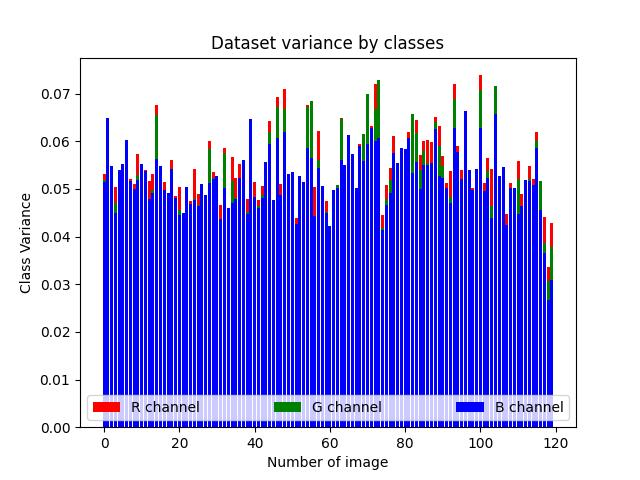
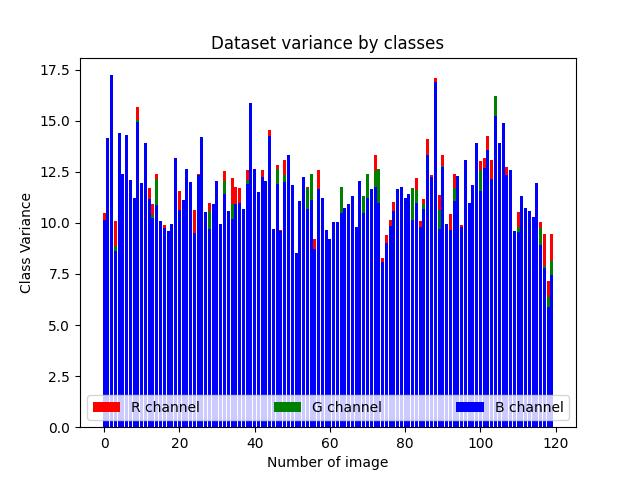
Fix variance by classes formula

diff --git a/src/features.py b/src/features.py
@@ -71,7 +71,7 @@ def get_features_classes(data_train_dir, img_height, img_width):
     all_classes_directory = glob.glob(data_train_dir + '/*')
     features = []
     helpers.progress(0, len(all_classes_directory))
-    for i, path in enumerate(all_classes_directory):
+    for index, path in enumerate(all_classes_directory):
         class_features = []
         features_classes = get_features(glob.glob(path + '/*'), img_height, img_width, False)
 
@@ -79,9 +79,15 @@ def get_features_classes(data_train_dir, img_height, img_width):
         for i in range(0, 3):
             class_features.append(np.mean(features_classes[:, i]))
 
-        # var
+        # var (https://stats.stackexchange.com/questions/300392/calculate-the-variance-from-variances)
         for i in range(3, 6):
-            class_features.append(np.mean(features_classes[:, i]))
+            mean_class = np.mean(features_classes[:, i - 3])
+            mean = features_classes[:, i - 3]
+            var = features_classes[:, i]
+            var_mean = 0
+            for j in range(0, len(mean)):
+                var_mean = var_mean + ((mean_class - mean[j]) ** 2 + var[j])
+            class_features.append(var_mean)
 
         # # skew = asimetrie
         # for i in range(6, 9):
@@ -92,7 +98,7 @@ def get_features_classes(data_train_dir, img_height, img_width):
         #     class_features.append(kurtosis(features_classes[:, i], fisher=False))
 
         features.append(class_features)
-        helpers.progress(i, len(all_classes_directory), 'Classes features')
+        helpers.progress(index, len(all_classes_directory), 'Classes features')
 
     return np.array(features, dtype=object)
 

diff --git a/main.py b/main.py
@@ -23,10 +23,10 @@ dataset_train, dataset_test = dataset.load_dataset_paths(data_train_dir, data_te
 # FEATURES ALL DATASET
 # ___________________________________________
 
-train_features = features.get_features(dataset_train.filenames, img_height, img_width)
-
-features.plot_features(train_features[:, 0:3], 'Dataset mean', 'Mean', True, False)
-features.plot_features(train_features[:, 3:6], 'Dataset variance', 'Variance', True, False)
+# train_features = features.get_features(dataset_train.filenames, img_height, img_width)
+#
+# features.plot_features(train_features[:, 0:3], 'Dataset mean', 'Mean', True, False)
+# features.plot_features(train_features[:, 3:6], 'Dataset variance', 'Variance', True, False)
 # features.plot_features(train_features[:, 6:9], 'Dataset train skewness', 'Skewness', False, True)
 # features.plot_features(train_features[:, 9:12], 'Dataset train kurtosis', 'Kurtosis', False, True)
 
